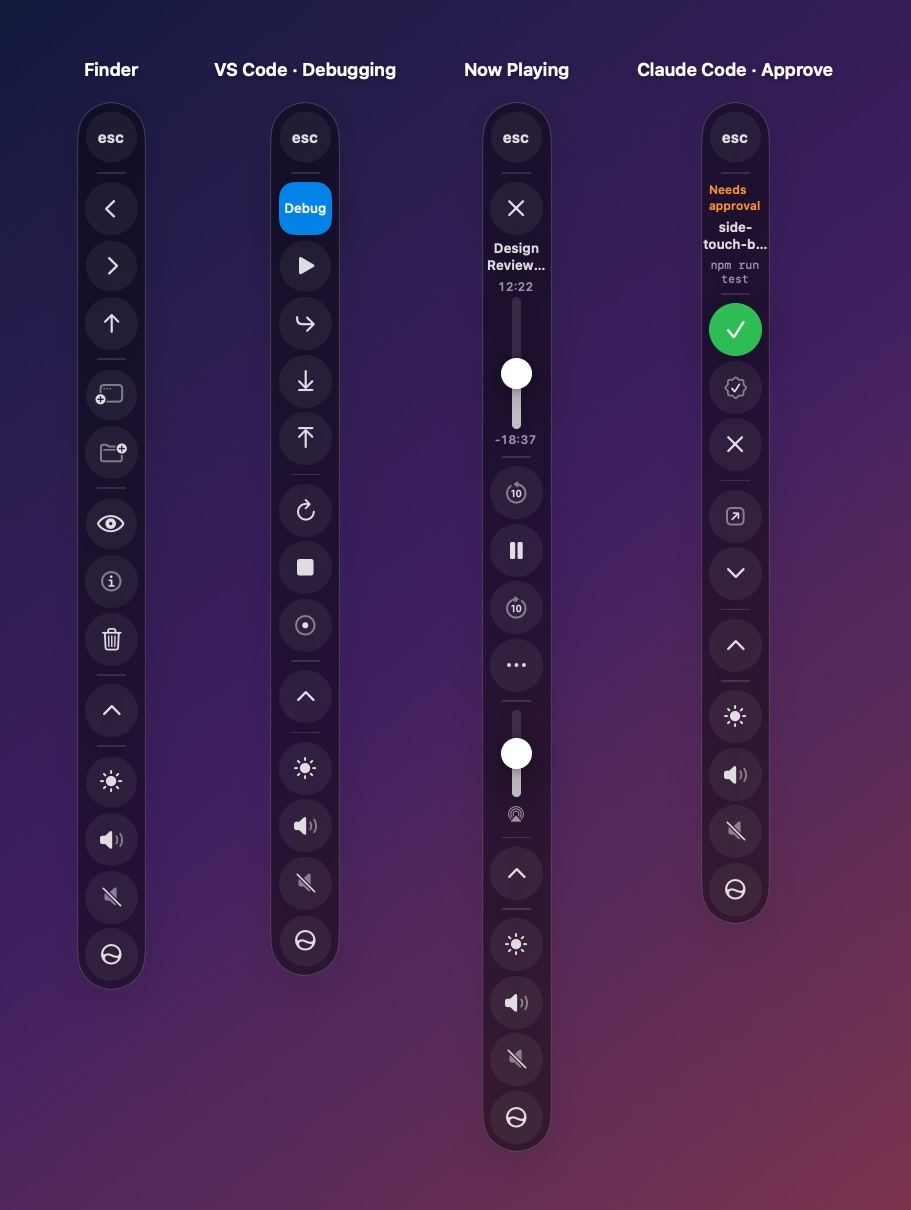
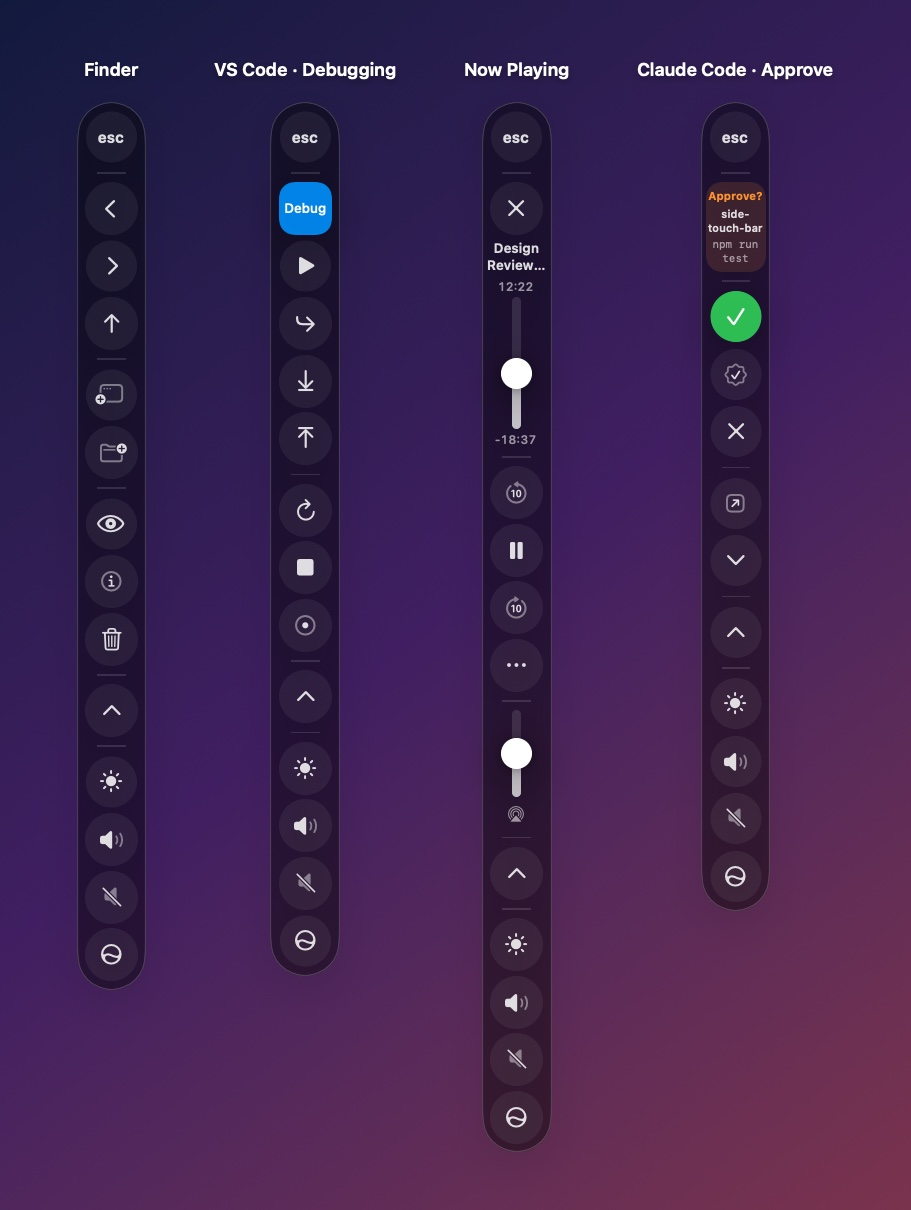
Lay out the approval prompt as one centered card
The status, project name and command waiting for approval now sit in one orange-tinted card the width of the buttons, all centered. The header is shorter (Approve?) so it fits on one line in English, the project name scales down instead of being cut off, and long commands truncate in the middle. Preview images regenerated.

diff --git a/Sources/SideTouchBar/UI/AIViews.swift b/Sources/SideTouchBar/UI/AIViews.swift
@@ -180,23 +180,7 @@ struct AgentAttentionPanel: View {
 
     var body: some View {
         VStack(spacing: metrics.spacing) {
-            Text(tr("等你确认"))
-                .font(.system(size: metrics.captionSize * 0.9, weight: .semibold))
-                .foregroundStyle(.orange)
-            Text(session.title)
-                .font(.system(size: metrics.captionSize, weight: .semibold))
-                .lineLimit(2)
-                .multilineTextAlignment(.center)
-                .frame(width: metrics.width - 4)
-            if let detail = session.detail {
-                Text(detail)
-                    .font(.system(size: metrics.captionSize * 0.85, design: .monospaced))
-                    .foregroundStyle(.secondary)
-                    .lineLimit(3)
-                    .multilineTextAlignment(.center)
-                    .frame(width: metrics.width - 4)
-                    .help(detail)
-            }
+            header
             BarDivider()
             BarButton(icon: .symbol("checkmark"), help: "是", tint: .green) {
                 AgentSessionActions.answer(.yes, for: session)
@@ -217,6 +201,39 @@ struct AgentAttentionPanel: View {
                 withAnimation(BarAnimation.morph) { state.dismissedAttentionKey = AttentionKey(session) }
             }
         }
+    }
+
+    /// What's waiting, as one centered card the width of the buttons below it.
+    private var header: some View {
+        let textWidth = metrics.buttonSize + 2 * metrics.scale
+        return VStack(spacing: 3 * metrics.scale) {
+            Text(tr("请确认"))
+                .font(.system(size: metrics.captionSize * 0.9, weight: .bold))
+                .foregroundStyle(.orange)
+                .lineLimit(1)
+                .minimumScaleFactor(0.7)
+            Text(session.title)
+                .font(.system(size: metrics.captionSize * 0.9, weight: .semibold))
+                .lineLimit(2)
+                .minimumScaleFactor(0.75)
+                .help(session.cwd ?? session.title)
+            if let detail = session.detail {
+                Text(detail)
+                    .font(.system(size: metrics.captionSize * 0.8, design: .monospaced))
+                    .foregroundStyle(.secondary)
+                    .lineLimit(2)
+                    .truncationMode(.middle)
+                    .help(detail)
+            }
+        }
+        .multilineTextAlignment(.center)
+        .frame(width: textWidth)
+        .padding(.vertical, 6 * metrics.scale)
+        .padding(.horizontal, 2 * metrics.scale)
+        .background(
+            RoundedRectangle(cornerRadius: metrics.buttonSize * 0.3, style: .continuous)
+                .fill(Color.orange.opacity(0.14))
+        )
     }
 }
 

diff --git a/Sources/SideTouchBar/App/L10n+English.swift b/Sources/SideTouchBar/App/L10n+English.swift
@@ -306,6 +306,7 @@ extension L10n {
         "无法打开麦克风": "Couldn't open the microphone",
         "安装状态提醒后，这里会显示会话状态和上下文用量": "Install status alerts to see session status and context usage here",
         "等你确认": "Needs approval",
+        "请确认": "Approve?",
         "跳到这个会话": "Go to this session",
         "稍后处理": "Later",
         "没有 AI 会话": "No AI sessions",
